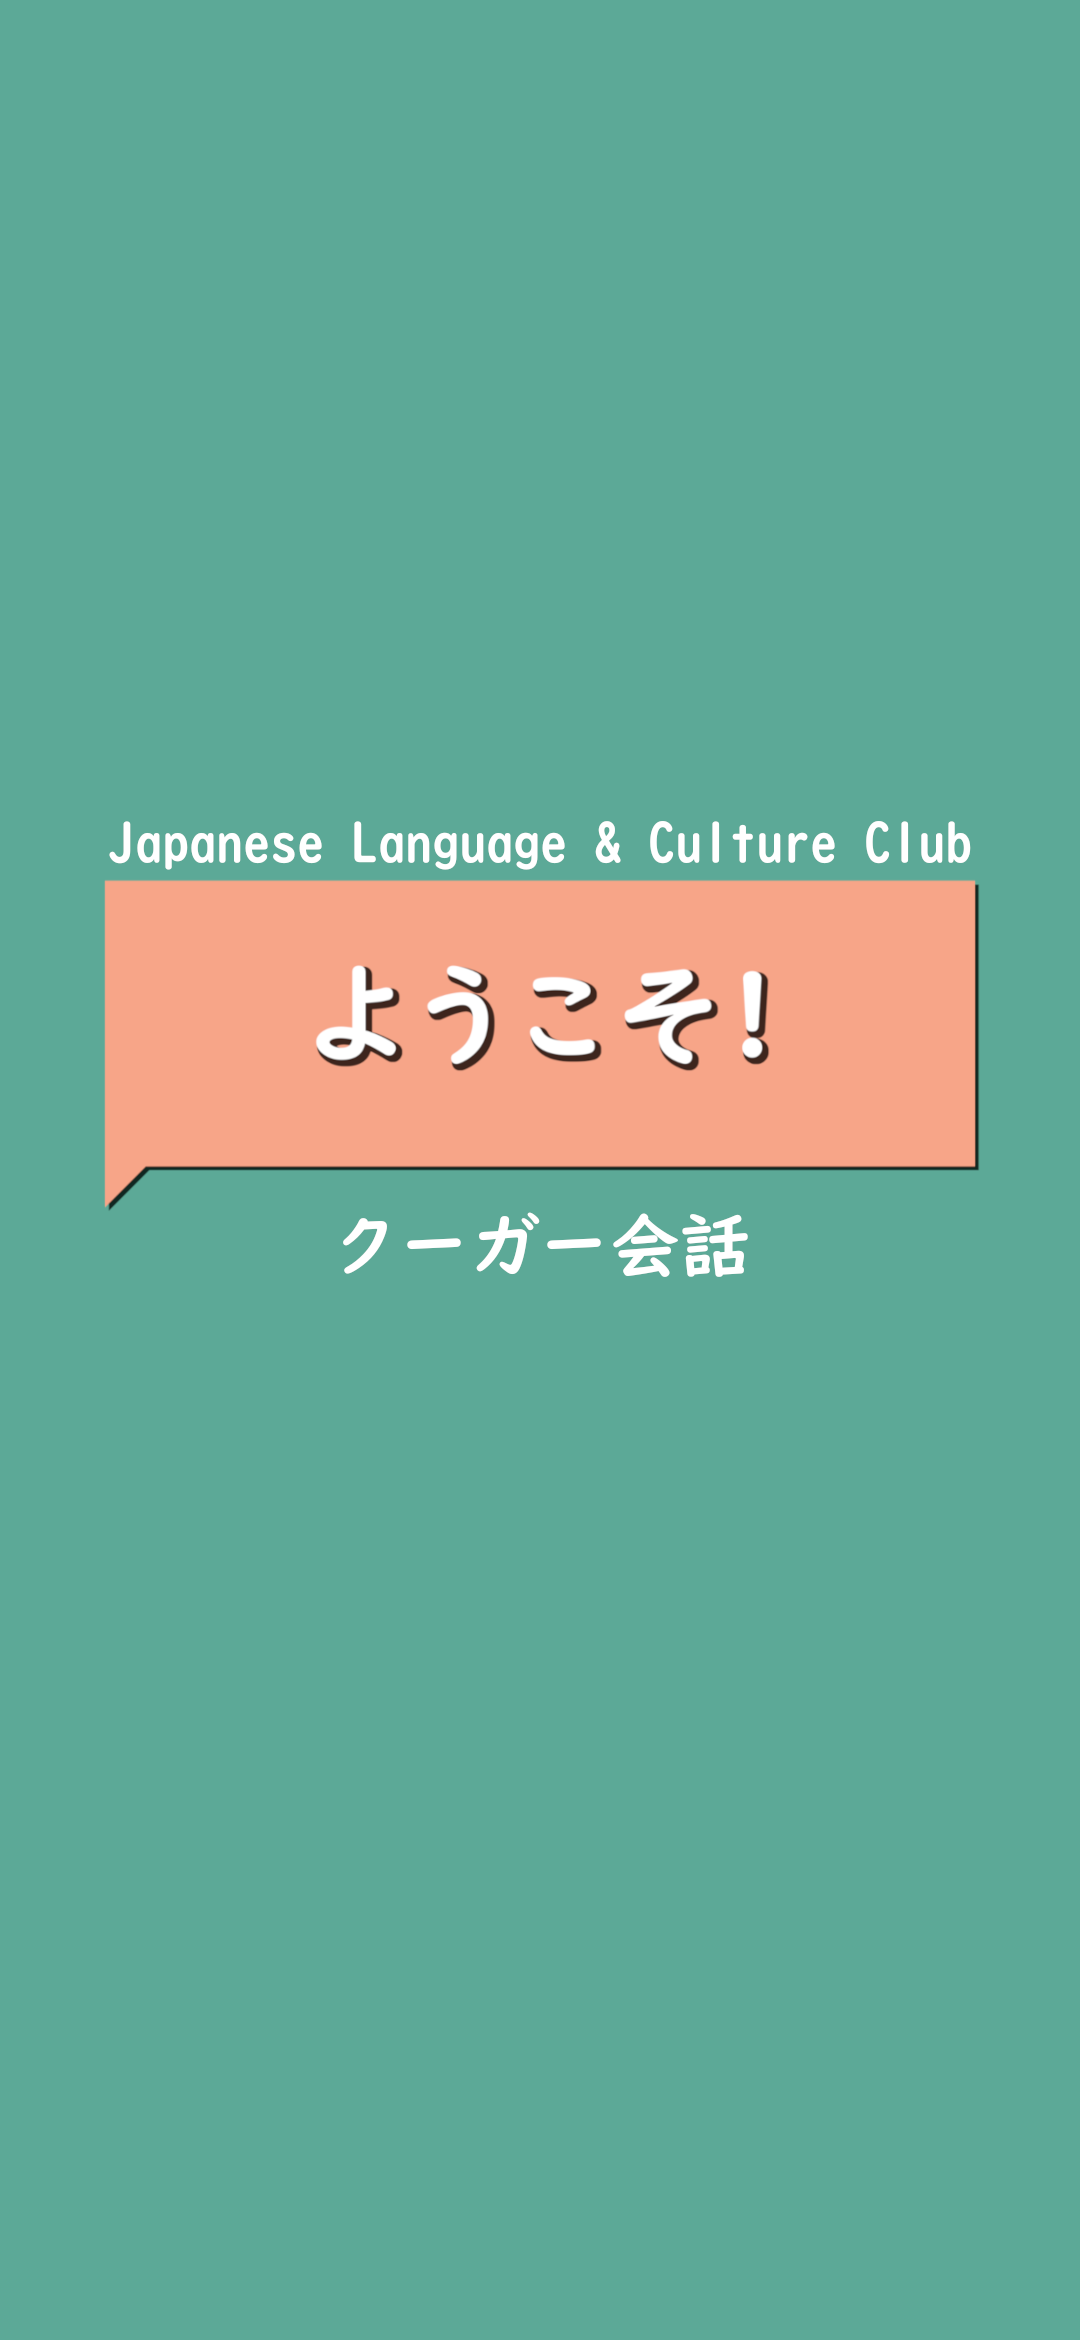
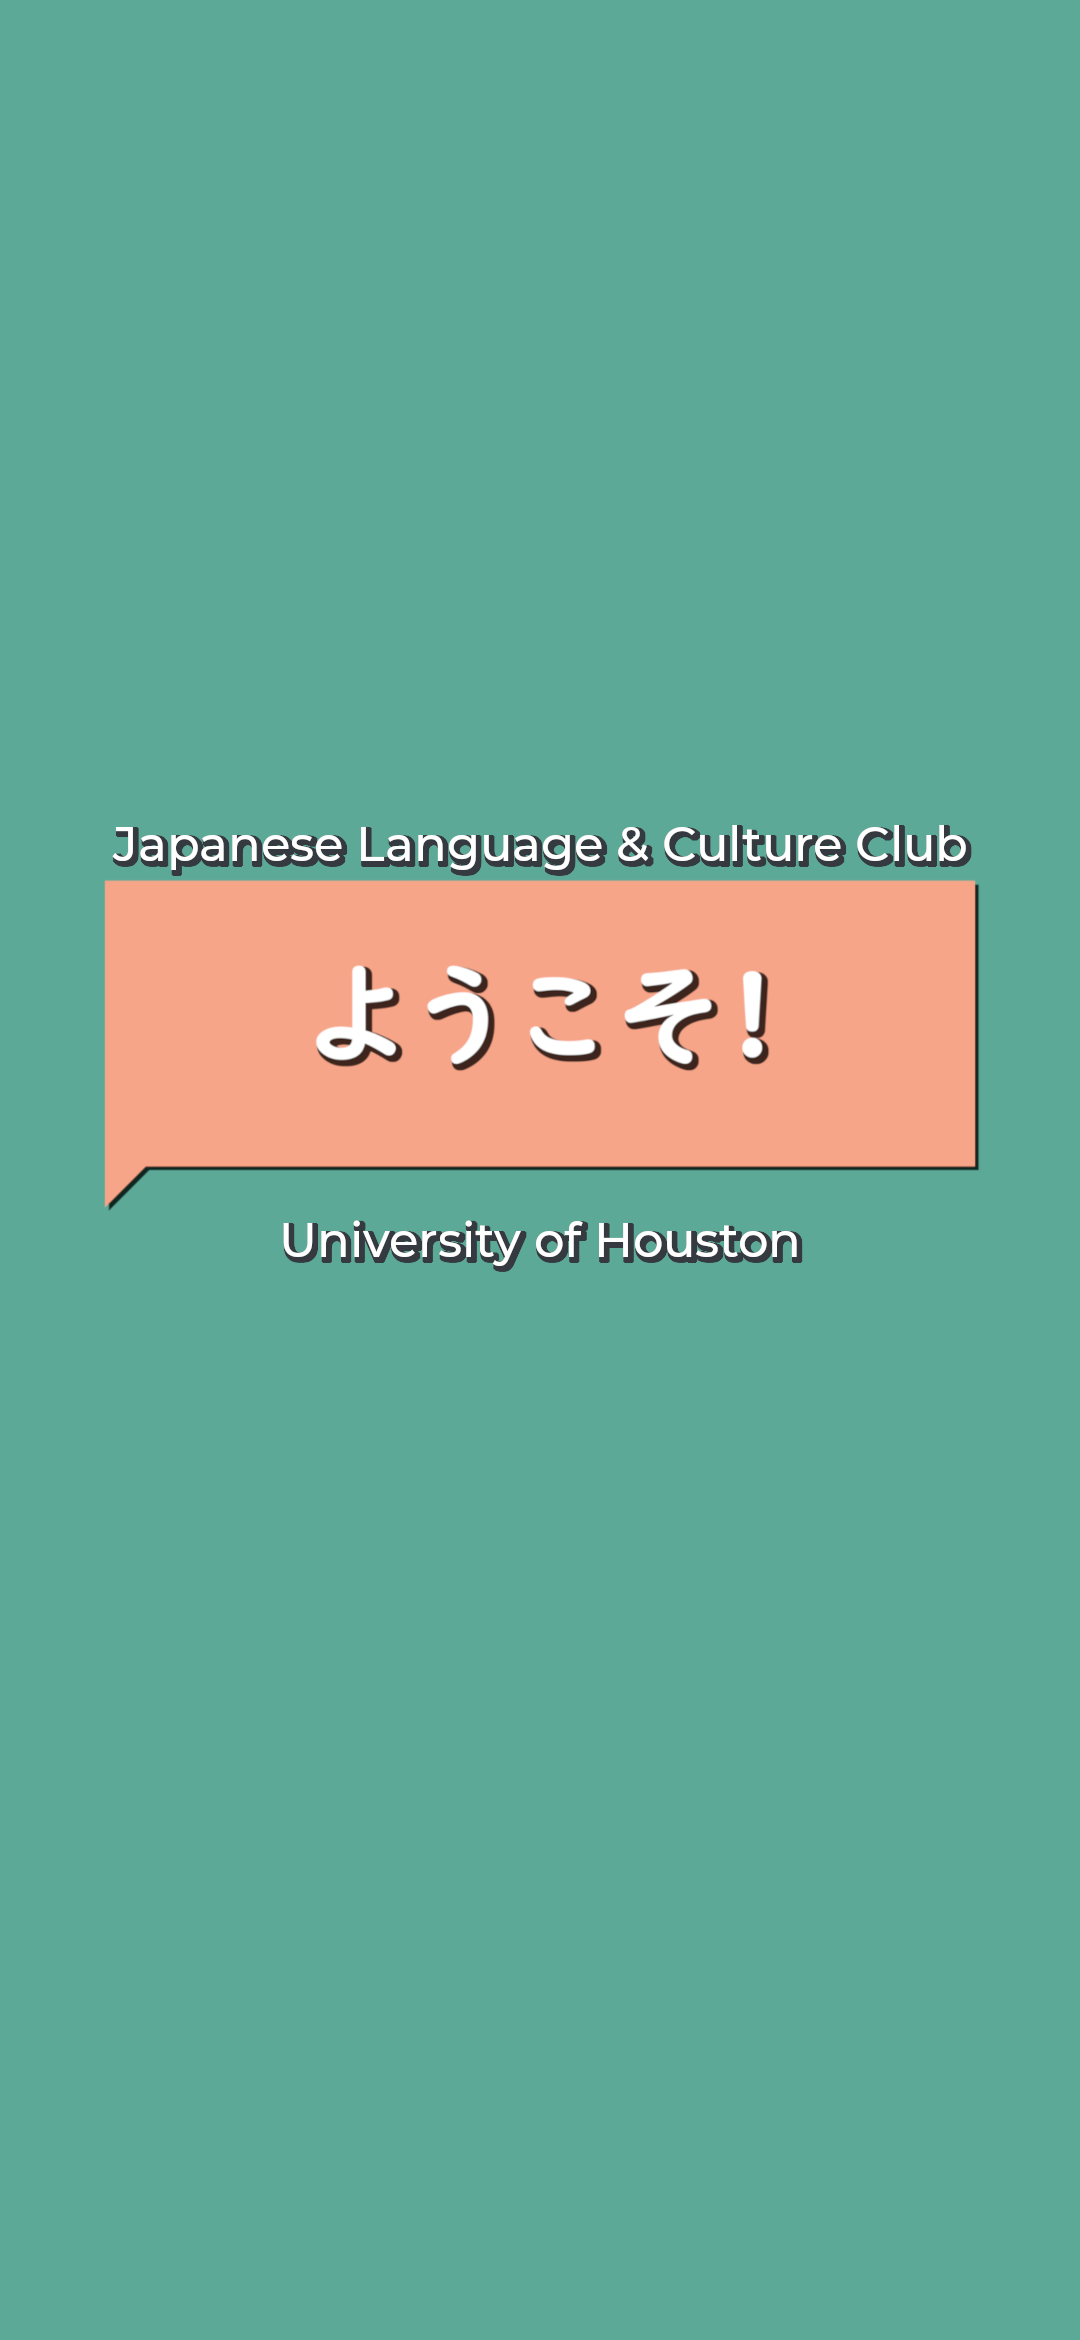
Added Membership & Community Sections, Added footer, Updated Landing img

Changed region(s): [[0.275, 0.4991, 0.7333, 0.5615], [0.0917, 0.3432, 0.9167, 0.3744]]

diff --git a/style.css b/style.css
@@ -112,7 +112,7 @@ p{
 #header .nav-list ul a {
 	font-size: 2.5rem;
 	font-weight: 500;
-	letter-spacing: 0.2rem;
+	letter-spacing: 0.1rem;
 	text-decoration: none;
 	color: white;
 	text-transform: uppercase;
@@ -151,7 +151,7 @@ p{
 	z-index: 100;
 	cursor: pointer;
 	transform: scale(0.8);
-	margin-right: 20px;
+	margin-right: 10px;
 }
 #header .hamburger::after {
 	position: absolute;
@@ -316,6 +316,7 @@ p{
 	padding: 10px 20px;
 }
 #events .events-item .events-img{
+	background-color: #f7a588;
 	flex-basis: 50%;
 	overflow: hidden;
 	position: relative;
@@ -360,6 +361,7 @@ p{
 	overflow: hidden;
 }
 #officers .officers-item .officers-img{
+	background-color: #f7a588;
 	flex-basis: 50%;
 	overflow: hidden;
 	position: relative;
@@ -398,7 +400,7 @@ p{
 	padding: 100px 0;
 }
 #membership .section-title{
-	margin: 20px;
+	margin: 20px 0px;
 }
 #membership .membership-left{
 	margin: 20px 20px;
@@ -431,11 +433,101 @@ p{
 }
 /* End of Membership Section */
 
+/* Community Section */
+#community .community{
+	max-width: 1200px;
+	flex-direction: column;
+	text-align: center;
+	margin: 0 auto;
+	padding: 100px 0;
+}
+#community .community-list{
+	display: flex;
+	justify-content: center;
+	align-items: top;
+	flex-wrap: wrap;
+	margin-top: 50px;
+}
+#community .community-item{
+	flex-basis: 80%;
+	display: flex;
+	justify-content: center;
+	flex-direction: column;
+	align-self: start;
+	padding: 20px;
+	border-radius: 10px;
+	background-color: lightgrey;
+	margin: 10px 10px;
+	position: relative;
+	overflow: hidden;
+}
+#community .community-item .section-title{
+	font-size: 3rem;
+	font-weight: 700;
+	letter-spacing: 0.1rem;
+}
+#community .community-item img{
+	width: 80px;
+	height: 80px;
+	margin-top: 20px;
+	transition: 0.3s ease transform;
+}
+#community .community-item .icon:hover img{
+	transform: scale(1.05);
+}
+/* End of Community Section */
+
+/* Footer Section */
+#footer{
+	background-color: #5ca997;
+}
+#footer .footer {
+	min-height: 200px;
+	flex-direction: column;
+	padding-top: 50px;
+	padding-bottom: 10px;
+}
+#footer h2 {
+	text-align: center;
+	color: white;
+	font-weight: 500;
+	font-size: 1.8rem;
+	letter-spacing: 0.1rem;
+	margin-top: 10px;
+	margin-bottom: 10px;
+}
+#footer .social-icon {
+	display: flex;
+	margin-bottom: 30px;
+}
+#footer .social-item {
+	height: 50px;
+	width: 50px;
+	margin: 0 5px;
+}
+#footer .social-item img {
+	transition: 0.3s ease transform;
+}
+#footer .social-item:hover img {
+	transform: scale(1.05);
+}
+#footer p {
+	color: white;
+	font-size: 1.3rem;
+}
+/* End of Footer Section */
+
 /* Media Query For Tablet */
 @media only screen and (min-width: 768px) {
 	.cta {
 		font-size: 1.8rem;
 		padding: 10px 30px;
+	}
+	#about .container{
+		min-height: 60vh;
+	}
+	#membership .container{
+		min-height: 60vh;
 	}
 	#hero{
 		background-image: url(./img/JLCC-Landing.png);
@@ -450,6 +542,10 @@ p{
 	}
 	#membership .membership .membership-right{
 		align-items: top;
+	}
+	#community .community-list{
+		flex-wrap: wrap;
+		max-width: 40vw;
 	}
 }
 /* End Media Query For Tablet */

diff --git a/index.html b/index.html
@@ -189,6 +189,41 @@
 	</section>
 	<!-- End of Section -->
 
+	<!-- Community Section -->
+	<section id="community">
+		<div class="community container">
+			<h1 class="section-title">Community</h1>
+			<div class="community-list">
+				<div class="community-item">
+					<h1 class="section-title">Discord</h1>
+					<p>Join our Discord server to gain access to a community of over 100 other Japanese learners from the University of Houston. Have your burning Japanese questions answered by those who were once in your shoes. Participate in events hosted on Discord like Japanese Tables & impromptu gaming sessions.</p>
+					<p>The server is open to anyone studying at the University of Houston, so feel free to join if you're interested!</p>
+					<div class="icon"> <a href="#"><img src="./img/JLCC-Discord-Alt.png"/></a> </div>
+				</div>
+				<div class="community-item">
+					<h1 class="section-title">Instagram</h1>
+					<p>Follow us on Instagram to keep up our with upcoming events & get to know our officers!</p>
+					<div class="icon"> <a href="#"><img src="./img/JLCC-Instagram.png"/></a> </div>
+				</div>
+			</div>
+		</div>
+	</section>
+	<!-- End of Community Section -->
+
+	<!-- Footer Section -->
+	<section id="footer">
+		<div class="footer container">
+			<div class="brand"><h1>JLCC <span>UH</span></h1></div>
+			<h2>Japanese Language & Culture Club, University of Houston</h2>
+			<div class="social-icon">
+				<div class="social-item"> <a href="#"> <img src="./img/JLCC-Instagram.png"></a></div>
+				<div class="social-item"> <a href="#"> <img src="./img/JLCC-Mail.png"></a></div>
+			</div>
+			<p>Created by Mitchell Sharma in 2022. All rights reserved</p>
+		</div>
+	</section>
+	<!-- End of Footer Section -->
+
     <script src="script.js"></script>
   </body>
 </html>
